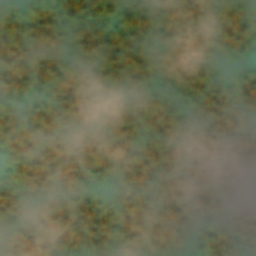
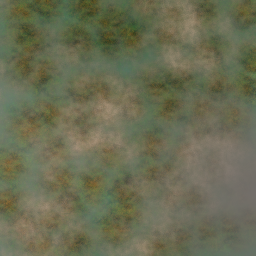
add more params to perlin noise gen

diff --git a/code/app/texed_ops_helpers.c b/code/app/texed_ops_helpers.c
@@ -73,7 +73,7 @@ Image texed_generate_cellular(uint32_t seed, int width, int height, int tileSize
         {
             int tileX = x/tileSize;
             
-            float minDistance = (float)strtod("Inf", NULL);
+            float minDistance = ZPL_F32_MAX;
             
             // Check all adjacent tiles
             for (int i = -1; i < 2; i++)
@@ -87,16 +87,13 @@ Image texed_generate_cellular(uint32_t seed, int width, int height, int tileSize
                     Vector2 neighborSeed = seeds[(tileY + j)*seedsPerRow + tileX + i];
                     
                     float dist = (float)hypot(x - (int)neighborSeed.x, y - (int)neighborSeed.y);
-                    minDistance = (float)fmin(minDistance, dist);
+                    minDistance = zpl_min(minDistance, dist);
                 }
             }
             
             minDistance = zpl_max(cell_offset, minDistance);
-            
-            float intensity = (minDistance-cell_offset)/(float)tileSize;
-            if (intensity > 1.0f) intensity = 1.0f;
-            
-            pixels[y*width + x] = ColorLerp(color1, color2, (float)intensity);
+            float intensity = zpl_min(((minDistance-cell_offset)/(float)tileSize), 1.0f);
+            pixels[y*width + x] = ColorLerp(color1, color2, intensity);
         }
     }
     
@@ -115,7 +112,7 @@ Image texed_generate_cellular(uint32_t seed, int width, int height, int tileSize
 
 float stb_perlin_fbm_noise3(float x, float y, float z, float lacunarity, float gain, int octaves);
 
-Image texed_generate_perlin(int width, int height, int offsetX, int offsetY, float scale, Color color1, Color color2) {
+Image texed_generate_perlin(int width, int height, int offsetX, int offsetY, float scale, Color color1, Color color2, float lacunarity, float gain, int octaves) {
     Color *pixels = (Color *)RL_MALLOC(width*height*sizeof(Color));
     
     for (int y = 0; y < height; y++)
@@ -131,9 +128,9 @@ Image texed_generate_perlin(int width, int height, int offsetX, int offsetY, flo
             //   octaves    =  6     -- number of "octaves" of noise3() to sum
             
             // NOTE: We need to translate the data from [-1..1] to [0..1]
-            float p = (stb_perlin_fbm_noise3(nx, ny, 1.0f, 2.0f, 0.5f, 6) + 1.0f)/2.0f;
+            float p = (stb_perlin_fbm_noise3(nx, ny, 1.0f, lacunarity, gain, octaves) + 1.0f)/2.0f;
             
-            pixels[y*width + x] = ColorLerp(color1, color2, p);
+            pixels[y*width + x] = ColorLerp(color1, color2, zpl_clamp(p, 0.0f, 1.0f));
         }
     }
     

diff --git a/code/app/texed_ops.c b/code/app/texed_ops.c
@@ -214,7 +214,10 @@ void texed_process_ops(void) {
                                                   op->params[1].i32,
                                                   op->params[2].flt*50.0f,
                                                   op->params[3].color,
-                                                  op->params[4].color);
+                                                  op->params[4].color,
+                                                  op->params[5].flt*10.0f,
+                                                  op->params[6].flt,
+                                                  op->params[7].i32);
                 Rectangle rec = {0, 0, w, h};
                 ImageDraw(dst, img, rec, rec, WHITE);
                 UnloadImage(img);

diff --git a/code/app/texed_ops_list.c b/code/app/texed_ops_list.c
@@ -180,12 +180,15 @@ static td_op default_ops[] = {
     },{
         OP(TOP_IMAGE_NOISE_PERLIN),
         .cat = TCAT_GEN,
-        PARAMS(5) {
+        PARAMS(8) {
             PARAM(TPARAM_COORD, "offset_x", "0"),
             PARAM(TPARAM_COORD, "offset_y", "0"),
             PARAM(TPARAM_SLIDER, "scale", "0.02"),
             PARAM(TPARAM_COLOR, "color1", PARAM_DEF_COLOR),
             PARAM(TPARAM_COLOR, "color2", "ffffffff"),
+            PARAM(TPARAM_SLIDER, "lacunarity", "0.2"),
+            PARAM(TPARAM_SLIDER, "gain", "0.5"),
+            PARAM(TPARAM_COORD, "octaves", "6"),
         }
     },{
         OP(TOP_IMAGE_CELLULAR),
